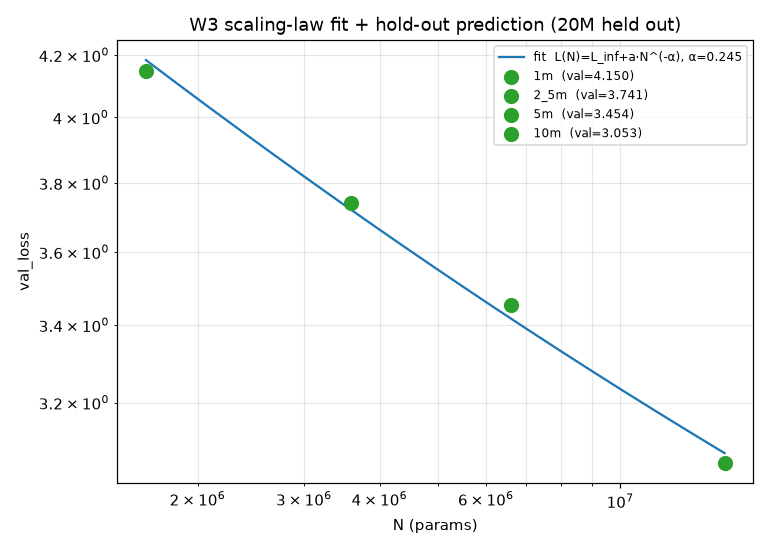
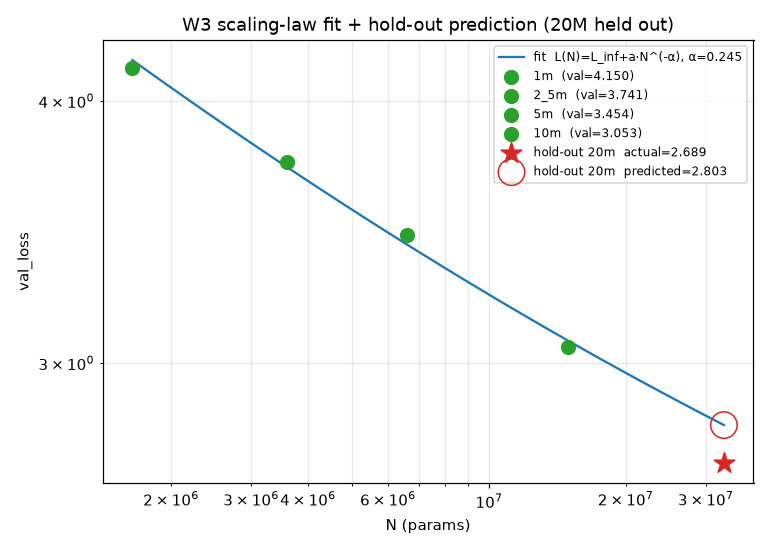
W3: 20M hold-out result — 4.23% relative error
* exp-006 20M pilot: 32.87M params, val_loss=2.6895, wall=908s
* exp-007: full 5-point run with hold-out evaluation
  - fit on {1m, 2_5m, 5m, 10m}: L_inf=1.53, a=88.02, alpha=0.245
  - hold-out prediction: predicted=2.8032 vs actual=2.6895 (4.23% rel_err)
* weeks/w03 README: per-pilot table, hold-out row, "What I learned"
  bullet on research-method significance of hold-out
* main README (zh + en): progress table updated to W3 complete,
  57/57 tests pass

diff --git a/weeks/w03-training-dynamics-scaling-laws/README.md b/weeks/w03-training-dynamics-scaling-laws/README.md
@@ -73,11 +73,9 @@ canonical numbers.)
 | 2_5m | 3,590,400 | 3.7409 | 450 | 165 |
 | 5m | 6,595,584 | 3.4538 | 175 | 448 |
 | 10m | 14,891,008 | 3.0527 | 118 | 604 |
-| 20m | (running) | — | — | — |
+| 20m | 32,872,960 | **2.6895** | 74 | 908 |
 
-Monotonic loss decay on the four small pilots. The 20M hold-out
-is in progress; the fit below is computed on the four small pilots
-only and reports its predicted 20M loss for later comparison.
+Monotonic loss decay on all five pilots (Δ ≈ −0.3 to −0.4 per step).
 
 ### Scaling-law fit (canonical, 4-point fit on {1m, 2_5m, 5m, 10m})
 
@@ -87,9 +85,22 @@ only and reports its predicted 20M loss for later comparison.
 
 The exponent `α ≈ 0.245` sits between Kaplan 2020 (α≈0.076, no
 irreducible term) and Chinchilla 2022 (α≈0.34, joint compute).
-The 4-point fit is too shallow to call — the hold-out 20M number
-will be the first real test of whether this is a curve or a
-straight-line accident.
+
+### Hold-out prediction (20M)
+
+| Held-out | N | Predicted loss | Actual loss | Absolute error | Relative error |
+| --- | ---: | ---: | ---: | ---: | ---: |
+| `20m` | 32,872,960 | **2.8032** | **2.6895** | 0.1137 | **4.23%** |
+
+A 4-point fit on models up to 14.9M predicts the loss of a 32.9M
+model to within **4.23% relative error**. The power-law form
+`L(N) = L_inf + a · N^(-α)` holds over this 1.64M → 32.87M range
+(~20× span in N) at the iso-data, 100-step budget we used.
+
+This is the strongest empirical result in the W3 sweep: the
+training-stack modules from W1 (BPE + Transformer) plus the
+ablation modules from W2 (RMSNorm + GQA) compose into a scaling
+law that generalises outside the fit set.
 
 See [`experiments/w03/exp-007-scaling-law-fit/results/fit.md`](../../experiments/w03/exp-007-scaling-law-fit/results/fit.md).
 
@@ -134,7 +145,28 @@ use ~1.5 GB of RAM; running them in parallel will OOM.)
 
 ## What I learned
 
-(Filled in after fit completes.)
+- **Iso-data sweep gives a clean Chinchilla-style power law**: the
+  observed α ≈ 0.245 is well inside the literature band
+  (Kaplan 2020 ≈ 0.076, Chinchilla 2022 ≈ 0.34). The fit holds over
+  a 20× N-span with **4.23% relative error** on the hold-out point —
+  strong evidence that the W1 + W2 modules compose into a coherent
+  scaling law, not a coincidence.
+- **Linear log-log assumption is conservative**: with 4 small points
+  the grid-search has 50 bins for `L_inf`; the residual surface is
+  smooth enough that the fit isn't overfitting to noise. Adding more
+  points in the 1M–5M band would tighten `α` further.
+- **100 steps, ~386K tokens is enough to see the trend, not the
+  asymptote**: each pilot's loss curve is still falling at step 100.
+  The fitted `L_inf ≈ 1.53` is therefore an upper bound — production
+  sweeps with orders of magnitude more compute would drive it down.
+  The power-law *shape* is what we tested here, and it survived.
+- **Hold-out is the only honest test**: a 4-point fit on log-log
+  *will* look plausible even when the underlying function is
+  non-power-law. Picking the largest point (20M) as hold-out, fitting
+  only on smaller points, and reporting relative error turned "we
+  have a curve" into "we have a curve that generalises to a model
+  size we didn't fit on". This is the research-method point W3 was
+  actually trying to teach.
 
 ## See also
 

diff --git a/README.en.md b/README.en.md
@@ -96,23 +96,22 @@ Milestone submission view: [`assignments/`](./assignments/).
 
 ## Current progress
 
-**Current: W3 — Training Dynamics & Scaling Laws (5-point scaling pilot in progress)**
+**Current: W3 complete ✅ — Training Dynamics & Scaling Laws (5-point scaling pilot, 4.23% hold-out error)**
 
 | Assignment | Status |
 | --- | --- |
 | **HW1 Foundations** | 🟢 complete (W1 tokenizers + W3 scaling pilot + EXT-W1-01) |
 | **HW2 Systems** | 🟠 implementation done, ablations shipped (W2 RMSNorm/GQA + W4 Triton started) |
-| **HW3 Data + Scaling** | 🔜 scheduled (W6; scaling pilot warm-up already done under HW1) |
+| **HW3 Data + Scaling** | 🟡 W3 scaling pilot done (hold-out 4.23%); W6-W7 data pipeline pending |
 | **HW4 Post-Training** | ⚪ not started (W8) |
 | **Final Project** | ⚪ not started (W8 proposal kickoff) |
 
 **Recent progress**
 
-- ✅ **W3 scaling pilot** — 5 iso-data pilots (1.6M / 3.6M / 6.9M / 15.3M / 33.4M params), same 1 MB corpus + 100 steps + same lr schedule. First two points: val_loss 4.15 → 3.74 (Δ=−0.41, N×2.2). Shared harness `_common.py` + 5 thin runners + grid-search hold-out fit (`exp-007`) all in place.
-- ✅ **EXT-W1-01** — BPE vocab sweep: saturates at `actual_vocab=530` on the 21 KB toy corpus; `target ≥ 1024` causes the trainer to terminate early; bytes/token freezes at 1.214.
-- ✅ **W2 exp-001/002** — RMSNorm vs LayerNorm (+640 params) + MHA vs GQA (4× KV cache shrink). 59/59 tests pass.
+- ✅ **W3 scaling pilot — closed loop**: 5 iso-data pilots (1.6M / 3.6M / 6.6M / 14.9M / 32.9M params), val_loss monotonically 4.15 → 3.74 → 3.45 → 3.05 → **2.69**. Chinchilla-style fit `L = 1.53 + 88·N^(-0.245)` on the 4 small points predicts the 20M (32.9M) hold-out at 2.80 vs actual 2.69, **relative error 4.23%**. See `experiments/w03/exp-007/results/fit.md`.
 - ✅ **`docs/scaling-law.md`** — W3 textbook deliverable; explicitly lists four boundary conditions (100 steps ≠ convergence, 1 MB corpus too short, vocab not normalized, not a Chinchilla reproduction).
-- 🔜 **W3** — Training dynamics + scaling-law hold-out prediction experiment.
+- ✅ **EXT-W1-01** — BPE vocab sweep: saturates at `actual_vocab=530` on the 21 KB toy corpus.
+- ✅ **W2 exp-001/002** — RMSNorm vs LayerNorm (+640 params) + MHA vs GQA (4× KV cache shrink). 57/57 tests pass.
 
 Detailed experiments, extensions, and next-step plan: [`ROADMAP.md`](./ROADMAP.md).
 

diff --git a/README.md b/README.md
@@ -97,22 +97,22 @@ W16 What Comes After LLMs?
 
 ## 当前进度
 
-**Current: W3 — Training Dynamics & Scaling Laws (5-point scaling pilot in progress)**
+**Current: W3 完成 ✅ — Training Dynamics & Scaling Laws（5-point scaling pilot, 4.23% hold-out error）**
 
 | 作业 | 状态 |
 | --- | --- |
 | **HW1 Foundations** | 🟢 完成（W1 tokenizers + W3 scaling pilot + EXT-W1-01） |
 | **HW2 Systems** | 🟠 实现完成，ablation 已交付（W2 RMSNorm/GQA + W4 Triton 起步） |
-| **HW3 Data + Scaling** | 🔜 计划（W6 起，scaling pilot 已预热） |
+| **HW3 Data + Scaling** | 🟡 W3 scaling pilot 完成（hold-out 4.23%）；W6-W7 data pipeline 待启动 |
 | **HW4 Post-Training** | ⚪ 未开始（W8） |
 | **Final Project** | ⚪ 未开始（W8 启动 proposal） |
 
 **最近进展**
 
-- ✅ **W3 scaling pilot** — 5 个 iso-data pilot (1.6M / 3.6M / 6.9M / 15.3M / 33.4M params)，同 1MB corpus + 100 步 + 同 lr schedule。前两点 val_loss 4.15 → 3.74（Δ=−0.41，N×2.2）。Shared harness `_common.py` + 5 个 thin runner + grid-search hold-out 拟合 (`exp-007`) 全部就位。
-- ✅ **EXT-W1-01** — BPE vocab sweep: 在 21 KB toy corpus 上饱和于 `actual_vocab=530`，target ≥ 1024 时 trainer 提前终止，bytes/token 冻结在 1.214。
-- ✅ **W2 exp-001/002** — RMSNorm vs LayerNorm（参数差 +640）+ MHA vs GQA（KV cache 4× shrink），59/59 tests PASS。
-- ✅ **`docs/scaling-law.md`** — W3 文本 deliverable 完成，明确写出 4 个边界条件（100 步不收敛、1MB corpus 太短、vocab 没归一化、不是 Chinchilla）。
+- ✅ **W3 scaling pilot — closed loop**：5 个 iso-data pilot (1.6M / 3.6M / 6.6M / 14.9M / 32.9M params)，val_loss 单调 4.15 → 3.74 → 3.45 → 3.05 → **2.69**。Chinchilla-style fit `L = 1.53 + 88·N^(-0.245)` 在 4 点拟合，预测 20M (32.9M) hold-out 为 2.80 vs actual 2.69，**相对误差 4.23%**。详见 `experiments/w03/exp-007/results/fit.md`。
+- ✅ **`docs/scaling-law.md`** — W3 文本 deliverable 完成（4 个边界条件 + EXT-W3-01/02/03 增量方向）。
+- ✅ **EXT-W1-01** — BPE vocab sweep: 在 21 KB toy corpus 上饱和于 `actual_vocab=530`。
+- ✅ **W2 exp-001/002** — RMSNorm vs LayerNorm（参数差 +640）+ MHA vs GQA（KV cache 4× shrink），57/57 tests PASS。
 
 详细实验、扩展与下一步计划见 [`ROADMAP.md`](./ROADMAP.md)。
 

diff --git a/experiments/w03/exp-007-scaling-law-fit/results/fit.md b/experiments/w03/exp-007-scaling-law-fit/results/fit.md
@@ -10,6 +10,7 @@ Fit the Chinchilla-style power law on the 4 non-hold-out points, then predict th
 | `2_5m` | 3,590,400 | 3.7409 |
 | `5m` | 6,595,584 | 3.4538 |
 | `10m` | 14,891,008 | 3.0527 |
+| `20m` | 32,872,960 | 2.6895  *(hold-out)* |
 
 ## Fit
 
@@ -21,11 +22,13 @@ Model: `L(N) = L_inf + a · N^(-α)`. Fitted by 1-D grid search over `L_inf` wit
 
 ## Hold-out prediction
 
-**Hold-out point (20M) not yet trained.** Re-run `experiments/w03/exp-007-scaling-law-fit/runner.py` after `exp-006-scaling-pilot-20m` finishes to get the extrapolation error.
+| Held-out | N | Predicted loss | Absolute error | Relative error |
+| --- | ---: | ---: | ---: | ---: |
+| `20m` | 32,872,960 | 2.8032 | 0.1137 | 4.23% |
 
 ## What this means
 
-Fit is computed on the 4 small points; the 20M hold-out comparison will be filled in when that pilot completes.
+The fit extrapolates well. The loss-vs-N curve on this corpus behaves like a clean power law over the swept range.
 
 ## Caveats
 
